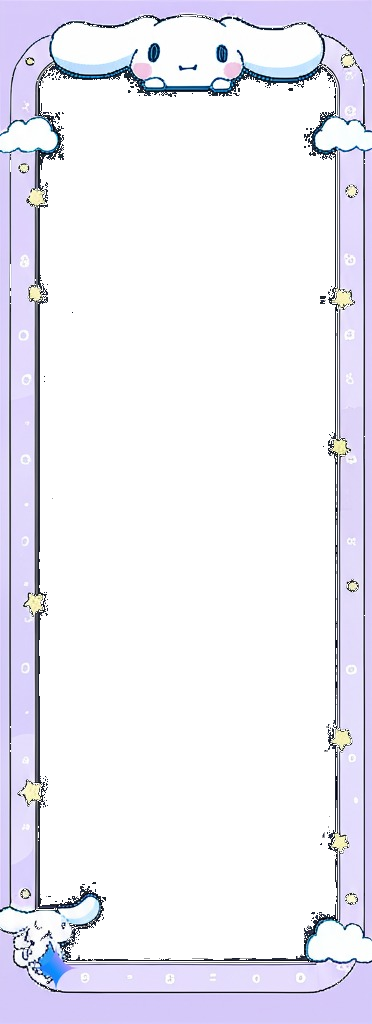
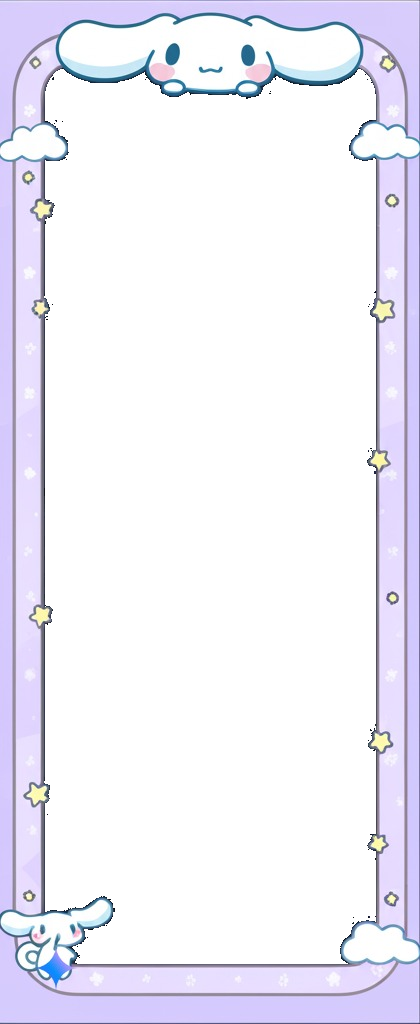
add changes to frames

Changed region(s): [[0.0, 0.0, 1.0, 1.0]]

diff --git a/src/components/customize-section/CustomizeSection.jsx b/src/components/customize-section/CustomizeSection.jsx
@@ -71,6 +71,11 @@ export default function CustomizeSection() {
     // Get the current selected frame object
     const currentFrame = frames.find(f => f.id === selectedFrame) || frames[0];
 
+    // Define fixed dimensions for the frame container with padding adjustments
+    const frameContainerClasses = `relative ${isSingleMode ? 'w-[340px] h-[460px]' : 'w-[160px]'} mx-auto ${
+        currentFrame.class
+    } transform transition-all duration-500 hover:scale-105`;
+
     return (
         <div className='w-full max-w-5xl mx-auto bg-white bg-opacity-90 backdrop-blur-lg rounded-3xl shadow-2xl border border-white border-opacity-40 relative overflow-hidden p-0 transition-all duration-300 animate-fadeIn'>
             {/* Enhanced decorative elements */}
@@ -108,23 +113,23 @@ export default function CustomizeSection() {
                     <div className='lg:w-2/5 flex flex-col justify-start items-center'>
                         <div>
                             <div className='flex justify-center mb-4'>
-                                <div
-                                    ref={previewContainerRef}
-                                    className={`relative ${isSingleMode ? 'max-w-[340px]' : 'max-w-[160px]'} mx-auto ${
-                                        currentFrame.class
-                                    } transform transition-all duration-500 hover:scale-105`}
-                                >
+                                <div ref={previewContainerRef} className={frameContainerClasses}>
                                     {/* Render PNG frame if the current frame is a PNG type */}
                                     {currentFrame.type === 'png' && (
                                         <img
                                             src={currentFrame.imgSrc}
                                             alt='Frame border'
-                                            className='absolute inset-0 w-full h-full object-contain pointer-events-none z-10'
+                                            className='absolute inset-0 w-full h-full object-cover pointer-events-none z-10'
+                                            style={{ objectFit: 'fill', objectPosition: 'center' }}
                                             draggable='false'
                                         />
                                     )}
 
-                                    <div className={`flex flex-col gap-2 p-3 ${isSingleMode ? 'pb-16' : ''}`}>
+                                    <div
+                                        className={`flex flex-col gap-2 p-3 w-full h-full ${
+                                            isSingleMode ? 'pb-16' : ''
+                                        }`}
+                                    >
                                         {state.selectedPhotos &&
                                             state.selectedPhotos.map((photo, index) => (
                                                 <div
